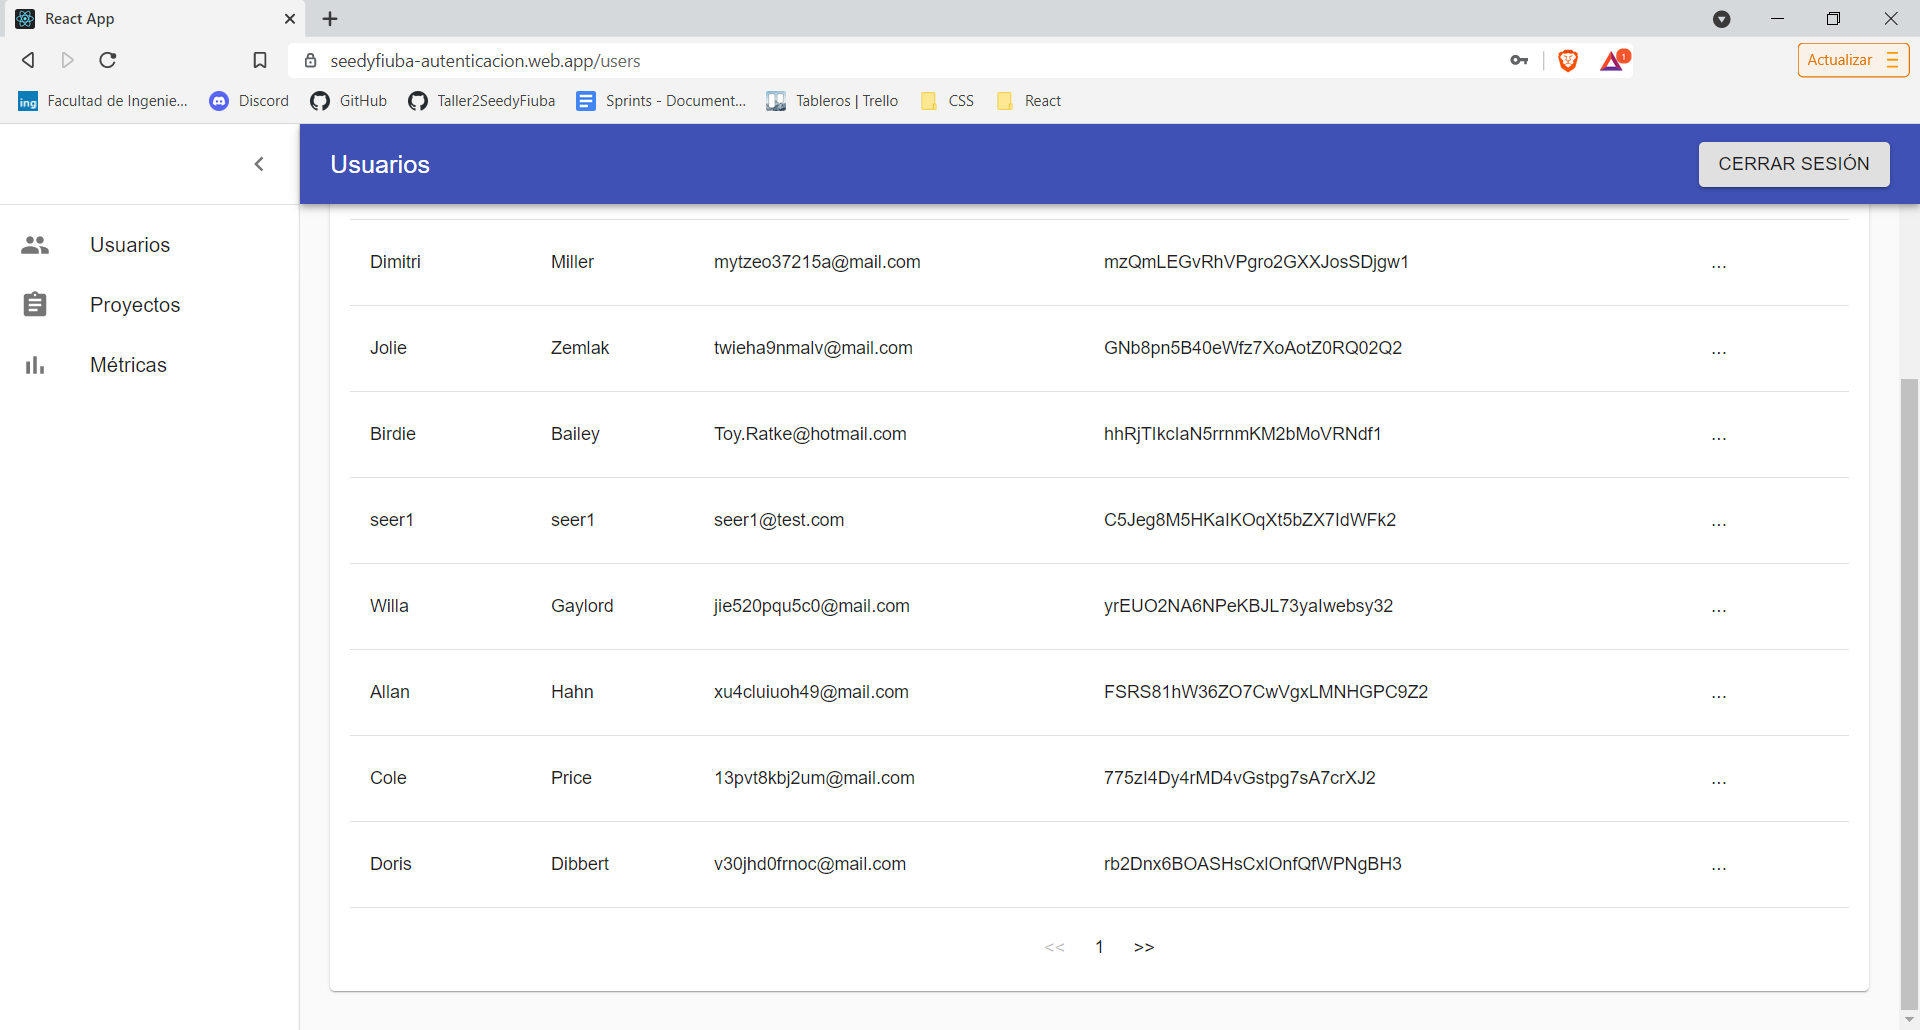
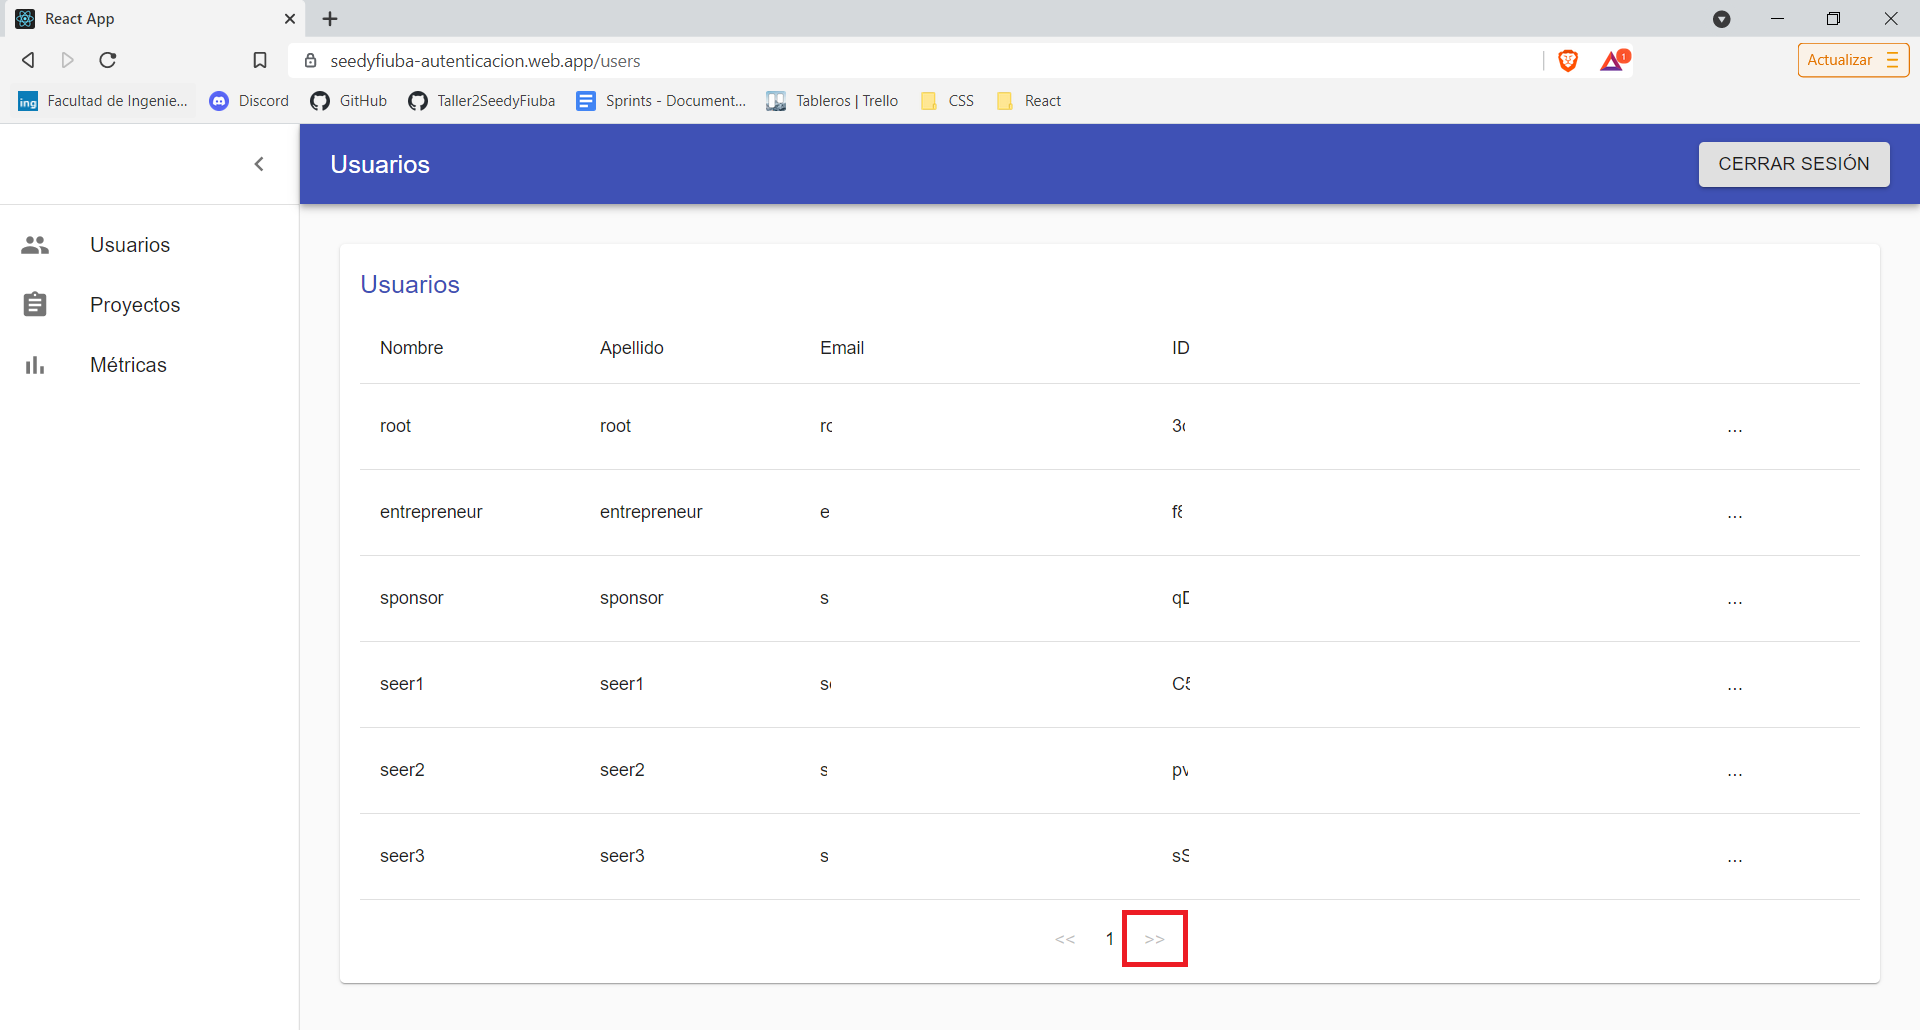
Manual de usuario v1

diff --git a/docs/Manual de Usuario Backoffice.md b/docs/Manual de Usuario Backoffice.md
@@ -1,0 +1,107 @@
+# Manual de Usuario Backoffice
+
+## Índice
+
+[TOC]
+
+## Introducción
+
+## Primeros Pasos
+
+### Creación de Cuenta
+
+Si es la primera vez que utiliza el servicio de Backoffice o busca crearse una nueva cuenta, debe seguir los siguientes pasos:
+
+1. En la página inicial, seleccione 'Registrarse'.
+
+<center><img src="img/1.1.png" width="950"/></center>
+
+2. Complete las credenciales con un mail válido, y una contraseña de al menos 6 caracteres. Una vez completado, presione 'REGISTRARSE'.
+
+<center><img src="img/2.png" width="950"/></center>
+
+3. Complete el apartado de nombre y apellido, y seleccione su fecha de nacimiento haciendo click en el calendario a la derecha del campo. Al finalizar, presione 'REGISTRARSE'.
+
+<center><img src="img/3.png" width="950"/></center>
+
+4. Una vez completo el registro, se lo llevará a la pantalla principal del Backoffice, donde le aparecerá un mensaje de error hasta que se le otorgue el poder de administrador.
+
+### Ingreso con Cuenta Propia
+
+1. En la página principal, ingrese las credenciales de la cuenta anteriormente creada y seleccione 'INGRESAR'.
+
+<center><img src="img/1.png" width="950"/></center>
+
+### Recupero de Contraseña
+
+1. En la página inicial, seleccione 'Recuperar contraseña'.
+
+<center><img src="img/1.2.png" width="950"/></center>
+
+2. Ingrese el mail asociado a su cuenta y presione 'ENVIAR MAIL'. Le aparecerá un mensaje cuando se envíe el mail. A continuación, vaya a la casilla de correos de su mail y siga las instrucciones.
+
+<center><img src="img/9.png" width="950"/></center>
+
+## Administración de Usuarios
+
+En la sección de Usuarios se podrán listar todos los usuarios del sistema, revisar la información detallada de cada uno y promocionar a administrador.
+
+### Listado de Usuarios
+
+1. Al ingresar a la sección de Usuarios, se listarán una cantidad predeterminada de usuarios.
+
+<center><img src="img/4.png" width="950"/></center>
+
+2. Para ver más usuarios, vaya hacia abajo en la página y presione el botón para avanzar o para retroceder (éstas aparecerán en gris y deshabilitadas en caso de que no haya más usuarios que mostrar).
+
+<center><img src="img/4.1.png" width="950"/></center>
+
+### Información de un Usuario y Promoción a Administrador
+
+1. Para acceder a la información de un usuario, haga click en los '...' del usuario que busca.
+
+<center><img src="img/4.2.png" width="950"/></center>
+
+2. Se lo redirigirá a una pantalla donde podrá ver toda la información del usuario seleccionado
+
+<center><img src="img/5.png" width="950"/></center>
+
+## Administración de Proyectos
+
+En la sección de Proyectos se podrán listar todos los proyectos del sistema, filtrar por distintos campos y revisar la información detallada de cada uno.
+
+### Listado de Proyectos
+
+1. Al entrar a la sección de proyectos, se listarán todos los proyectos sin filtros. Para hacer una búsqueda con filtrado, completa los distintos campos y presione el botón para buscar.
+
+   Los distintos campos son:
+
+   - ID Usuario. Un ID único correspondiente a un usuario.
+   - Etiquetas. Las etiquetas por las que se quiere buscar. Son case sensitive y se pueden escribir múltiples etiquetas separando por espacios.
+   - Categoría. Categoría del proyecto, se puede seleccionar únicamente una o ninguna.
+   - Etapa. Etapa del proyecto, se puede seleccionar únicamente una o ninguna.
+
+<center><img src="img/10.png" width="950"/></center>
+
+### Información de un Proyecto
+
+<center><img src="img/11.png" width="950"/></center>
+
+## Métricas de Usuarios y Proyectos
+
+En esta sección se encontrará con la información de las siguientes métricas:
+
+1. Cantidad de nuevos usuarios a lo largo del tiempo
+2. Cantidad de nuevos proyectos a lo largo del tiempo
+3. Cantidad de proyectos por etapa
+4. Cantidad de proyectos por categoría
+5. Cantidad de usuarios total vs usuarios veedores vs usuarios admins.
+
+<center><img src="img/7.png" width="950"/></center>
+
+<center><img src="img/8.png" width="950"/></center>
+
+
+
+
+
